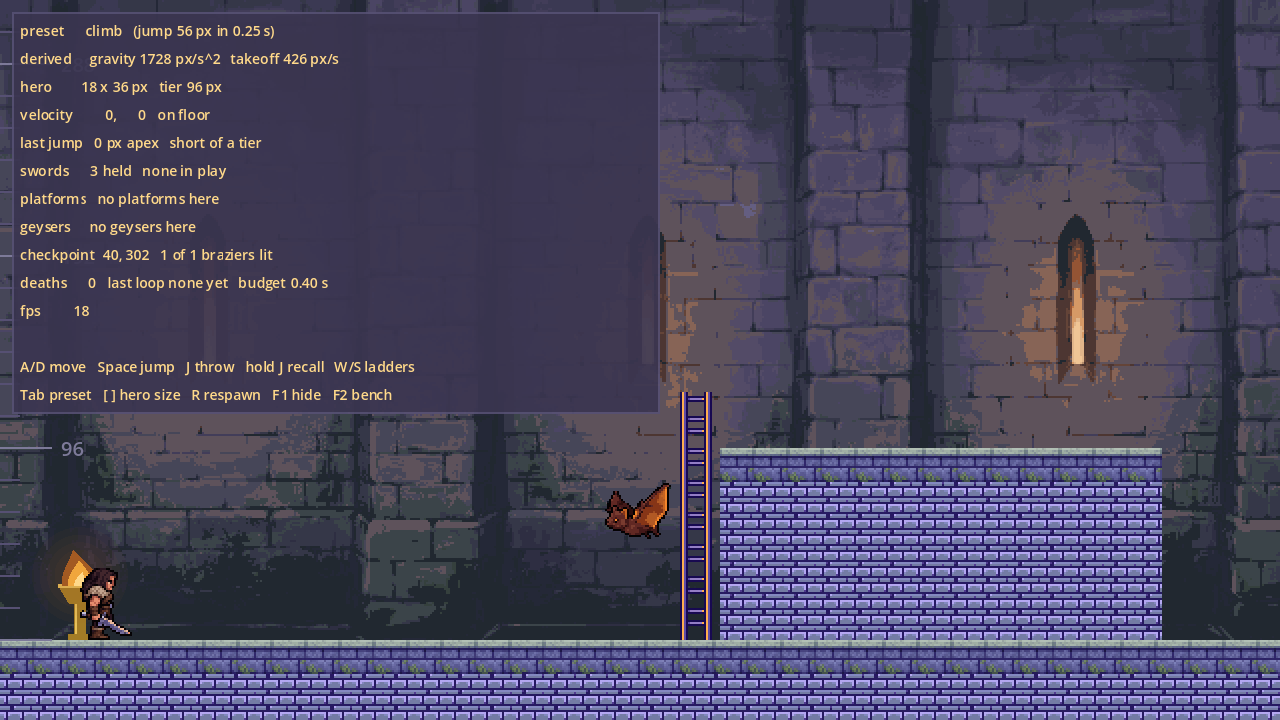
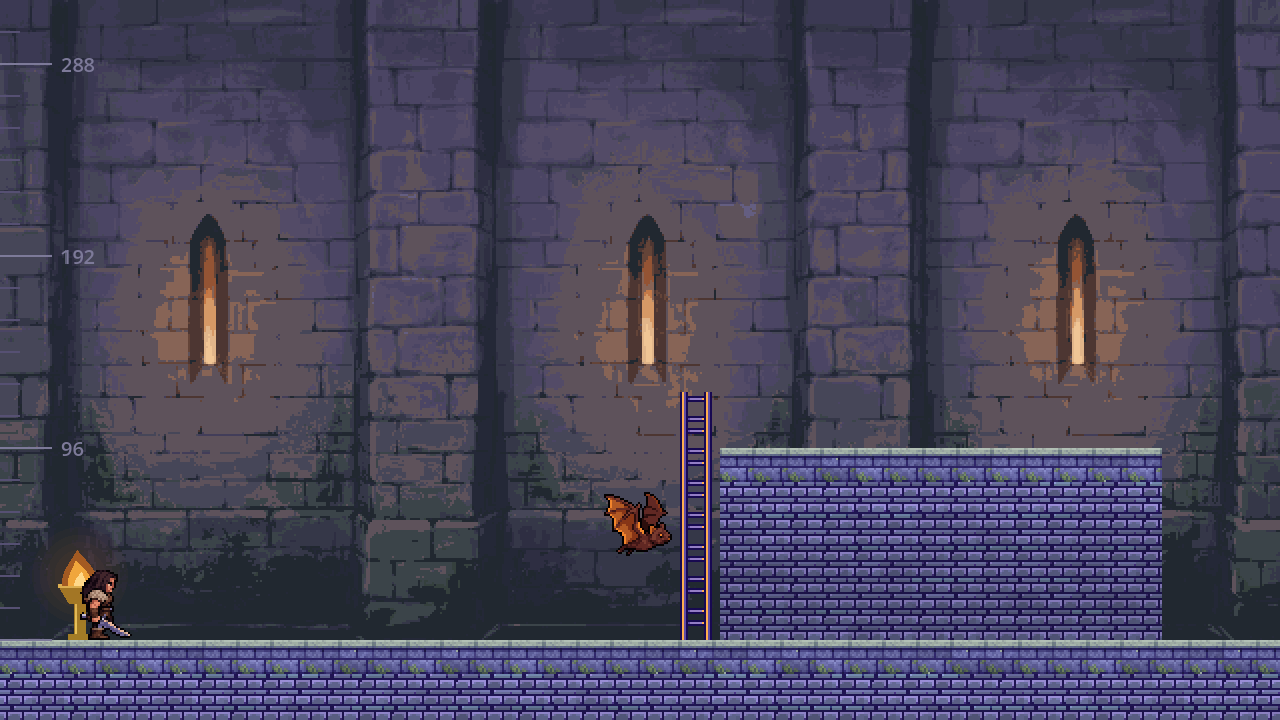
Calm the M5 foreground and vary its masonry; close M5
The wall face measured 0.41 mean luminance against a 0.25 background
and a 0.21 hero. Masonry below each walkable lip now steps darker row by
row (Palette.GROUND_SHADE, the light layer's shadow under a ledge), and
measures 0.30 in the running build: still above the 0.19 background
beside it, as ART_DIRECTION.md's "Backgrounds lose" asks, and no longer
the brightest thing on screen. The lip itself is unshaded.

tools/tile-variants.py derives variants from one tile: each brick,
found as a connected region with the tile's edges wrapping, gets its own
small shade shift, a few a damp green cast or a chipped corner. Mortar
is untouched, so every variant joins every other. No credits. The room
scatters 6 wall and 4 floor variants by TileVariety, a pure cell hash
with a test, so the room looks the same every load.

Matt called the room final quality, so M5 closes.

Claude-Session: https://claude.ai/code/session_01GtfkUK3EJECRXBtRcNAsKW

diff --git a/tools/tile-variants.py b/tools/tile-variants.py
@@ -1,0 +1,136 @@
+#!/usr/bin/env python3
+"""Derive N variants of a masonry tile, so a wall of it is not wallpaper.
+
+ART.md: don't generate a piece you could derive. Each brick (a connected
+region of non-mortar pixels, joined across the tile's edges so a brick that
+wraps stays one brick) gets its own small shift in brightness, and a few get
+a damp green cast or a chipped corner. The mortar is never touched, so every
+variant joins every other one seamlessly, exactly as the source tile does.
+
+Variant 0 is the source, unchanged. Rows above --lock-top are left alone,
+which is how a floor tile keeps its walkable lip identical in every variant.
+
+The source is never modified. Existing outputs need --overwrite (CLAUDE.md:
+the destructive mode is the flag).
+
+Usage:
+    tools/tile-variants.py TILE.png OUT_STEM --count 4 [--lock-top 4]
+        [--mortar-below 0.2] [--seed 1] [--overwrite]
+writes OUT_STEM_0.png .. OUT_STEM_<count-1>.png
+
+Requires pillow and numpy (tools/requirements.txt).
+"""
+from __future__ import annotations
+
+import argparse
+import colorsys
+import random
+import sys
+from pathlib import Path
+
+import numpy as np
+from PIL import Image
+
+# How far one brick's brightness may move, as a fraction of its value.
+_VALUE_JITTER = 0.10
+# Chance a brick is damp (a green cast) or chipped (one corner pixel lost).
+_DAMP_CHANCE = 0.12
+_CHIP_CHANCE = 0.15
+# The damp cast: hue pulled this far toward green, as ART_DIRECTION.md's
+# "damp and slightly green in the moat".
+_DAMP_HUE = 150.0 / 360.0
+_DAMP_PULL = 0.25
+
+
+def _luminance(rgb: np.ndarray) -> np.ndarray:
+    return 0.299 * rgb[..., 0] + 0.587 * rgb[..., 1] + 0.114 * rgb[..., 2]
+
+
+def label_bricks(brick: np.ndarray) -> np.ndarray:
+    """4-connected labels of `brick`, with the tile's edges wrapping, so a
+    brick cut by the tile boundary is one label. Mortar is -1."""
+    h, w = brick.shape
+    parent = list(range(h * w))
+
+    def find(i: int) -> int:
+        while parent[i] != i:
+            parent[i] = parent[parent[i]]
+            i = parent[i]
+        return i
+
+    for y in range(h):
+        for x in range(w):
+            if not brick[y, x]:
+                continue
+            for ny, nx in ((y, (x + 1) % w), ((y + 1) % h, x)):
+                if brick[ny, nx]:
+                    parent[find(y * w + x)] = find(ny * w + nx)
+    labels = np.full((h, w), -1, dtype=int)
+    for y in range(h):
+        for x in range(w):
+            if brick[y, x]:
+                labels[y, x] = find(y * w + x)
+    return labels
+
+
+def _mortar_sides(labels: np.ndarray, y: int, x: int) -> int:
+    h, w = labels.shape
+    return sum(labels[(y + dy) % h, (x + dx) % w] < 0 for dy, dx in ((-1, 0), (1, 0), (0, -1), (0, 1)))
+
+
+def make_variant(rgba: np.ndarray, labels: np.ndarray, rng: random.Random) -> np.ndarray:
+    out = rgba.astype(np.float64) / 255.0
+    for label in np.unique(labels[labels >= 0]):
+        cells = np.argwhere(labels == label)
+        scale = 1.0 + rng.uniform(-_VALUE_JITTER, _VALUE_JITTER)
+        damp = rng.random() < _DAMP_CHANCE
+        for y, x in cells:
+            h, s, v = colorsys.rgb_to_hsv(*out[y, x, :3])
+            if damp:
+                h = h + (_DAMP_HUE - h) * _DAMP_PULL
+            out[y, x, :3] = colorsys.hsv_to_rgb(h, s, min(1.0, v * scale))
+        if rng.random() < _CHIP_CHANCE:
+            corners = [(y, x) for y, x in cells if _mortar_sides(labels, y, x) >= 2]
+            mortar = np.argwhere(labels < 0)
+            if corners and len(mortar):
+                y, x = corners[rng.randrange(len(corners))]
+                my, mx = mortar[0]
+                out[y, x] = rgba[my, mx].astype(np.float64) / 255.0
+    return np.round(out * 255.0).astype(np.uint8)
+
+
+def main(argv: list[str] | None = None) -> int:
+    parser = argparse.ArgumentParser(description=__doc__.splitlines()[0])
+    parser.add_argument("tile", type=Path)
+    parser.add_argument("out_stem", type=Path)
+    parser.add_argument("--count", type=int, default=4)
+    parser.add_argument("--lock-top", type=int, default=0, help="Rows at the top left untouched.")
+    parser.add_argument("--mortar-below", type=float, default=0.2, help="Luminance under which a pixel is mortar.")
+    parser.add_argument("--seed", type=int, default=1)
+    parser.add_argument("--overwrite", action="store_true")
+    args = parser.parse_args(argv)
+
+    outs = [args.out_stem.with_name(f"{args.out_stem.name}_{i}.png") for i in range(args.count)]
+    if any(o.resolve() == args.tile.resolve() for o in outs):
+        raise SystemExit("tile-variants.py: an output would overwrite the source tile.")
+    existing = [o for o in outs if o.exists()]
+    if existing and not args.overwrite:
+        raise SystemExit(f"tile-variants.py: {existing[0]} already exists; pass --overwrite to replace.")
+
+    rgba = np.asarray(Image.open(args.tile).convert("RGBA"))
+    rgb = rgba[..., :3].astype(np.float64) / 255.0
+    brick = (_luminance(rgb) >= args.mortar_below) & (rgba[..., 3] > 127)
+    brick[: args.lock_top] = False
+    labels = label_bricks(brick)
+    rng = random.Random(args.seed)
+
+    outs[0].parent.mkdir(parents=True, exist_ok=True)
+    Image.fromarray(rgba, mode="RGBA").save(outs[0])
+    for out in outs[1:]:
+        Image.fromarray(make_variant(rgba, labels, rng), mode="RGBA").save(out)
+    print(f"{args.tile} -> {len(outs)} variants, {len(np.unique(labels[labels >= 0]))} bricks each")
+    return 0
+
+
+if __name__ == "__main__":
+    sys.exit(main())

diff --git a/ART.md b/ART.md
@@ -110,7 +110,10 @@ diagnosing `edit`'s size bug and trying operations for the first time.
 | background | none: the painted wall already pixelated (*Four layers*) | 0 |
 
 **So a room like this costs about 8 requests, 120 credits, once the recipe
-is known.** Every delivery then goes through `tools/recolour-darks.py` and
+is known.** Ground tiles then go through `tools/tile-variants.py`, and the
+room scatters the variants (`TileVariety`) and steps the masonry darker below
+each lip (`Palette.GROUND_SHADE`), which is what keeps a wall face under the
+hero's brightness and just above the background's. Every delivery then goes through `tools/recolour-darks.py` and
 `tools/palette-check.py` before it leaves `art_raw/`.
 
 **What is in the game**: `scenes/hero_sprite.tscn` and
@@ -127,10 +130,6 @@ it renders: `assets/art_raw/_experiments/m5_pixel_room.png`.
   Candidates: `generate` each pose at 32 and `direction-set` it, as the
   still was made (identity may drift), or `edit` and then hand-trim, or
   wait for Sprite Fusion's answer on the ticket.
-- **The idle's boots flicker a little** (5 to 14 pixels a frame). Judged
-  acceptable by filmstrip at game size; Matt's call by eye.
-- **The ledge face is the brightest large area on screen.** A darker wall
-  fill, or a shadow under the lip drawn in code, would calm it.
 
 ## The pipeline, four steps
 
@@ -177,6 +176,7 @@ it was for paintings. Wrong drawn content is still a reroll.
 | `sprite-fusion.py` | new | calls the API, writes deliveries and a request log to `assets/art_raw/` |
 | `key.py` | kept, if needed | delivery on a flat backdrop, out comes a transparent PNG |
 | `pixelate.py` | new | a painted background in, a 1x pixel-art one out, octree-reduced to a small palette |
+| `tile-variants.py` | new | one masonry tile in, N variants out, each brick shifted a little in shade, a few damp or chipped; mortar untouched so every variant joins every other |
 | `recolour-darks.py` | new | gives every pixel `palette-check.py` flags the hue of umber or violet-blue, from its nearest clean neighbour, at its own brightness |
 | `palette-check.py` | kept | judges a delivery against `ART_DIRECTION.md`'s coloured-dark rule |
 | `cut-sheet.py` | kept | one sheet, N connected components, out come N tight crops |

diff --git a/BUILD_PLAN.md b/BUILD_PLAN.md
@@ -89,6 +89,8 @@ Fusion and pixel art (`ART_DIRECTION.md`) means the same room is redrawn once
 more, through the new pipeline, with the same done-when plus credits spent.
 This PR is also where the project's texture filter flips to Nearest.
 
+**Closed 2026-09-28**, in pixel art: Matt called the room final quality.
+
 ### 🚧 G1: the vertical slice gate
 Take M5's room, add sound, and play it for an hour. **This is a decision point,
 not a milestone.** Fun: continue to M6. Not fun: the fault is in `SPEC.md` and
